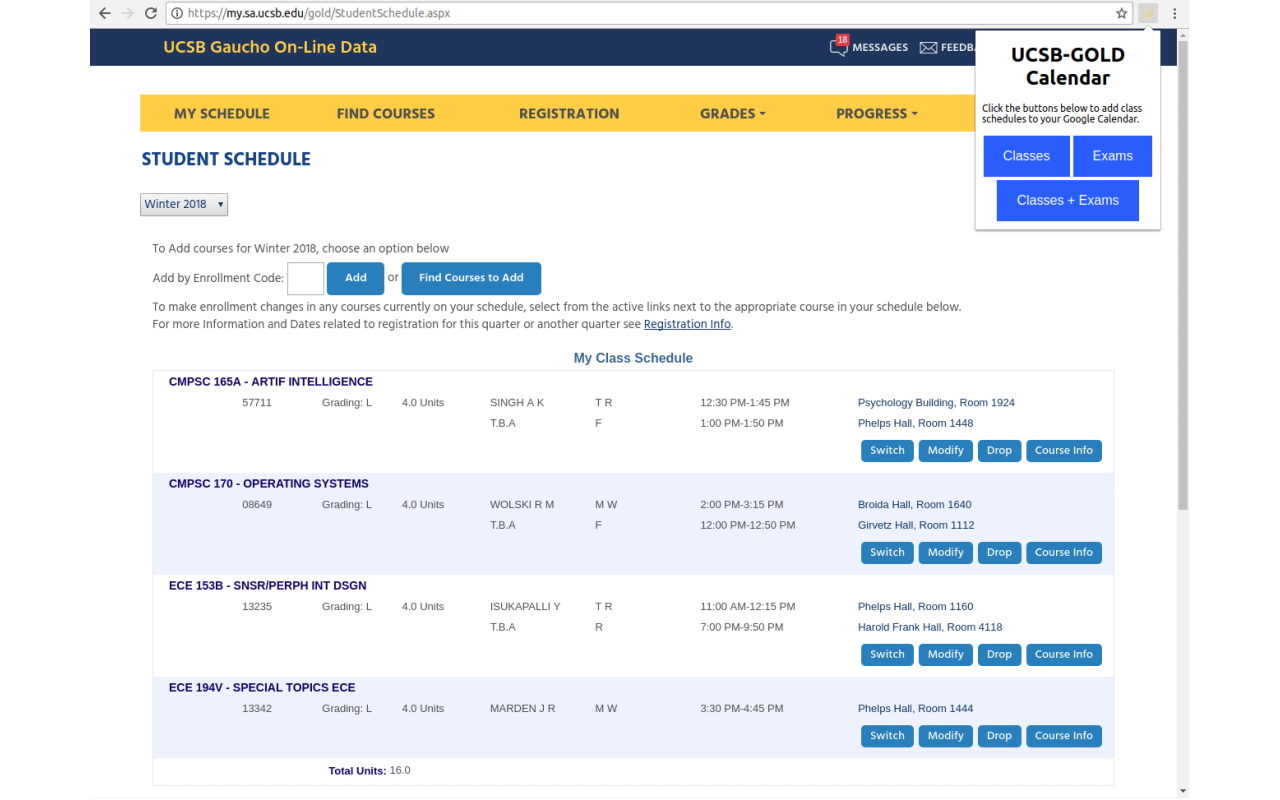
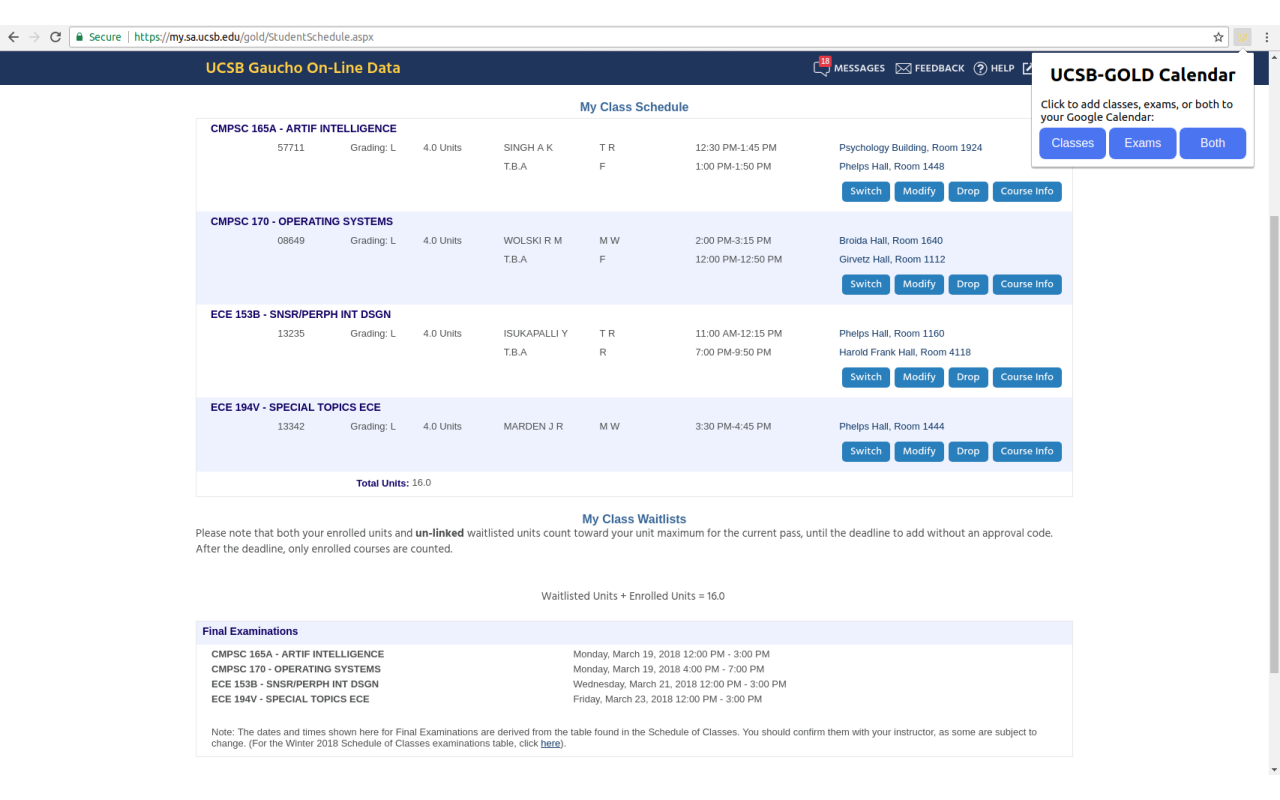
more popup edits

diff --git a/docs/popup.css b/docs/popup.css
@@ -31,4 +31,6 @@ button {
    color: white;
    font-size: 16px;
    padding: 12px;
+   border-radius: 8px;
+   cursor: pointer;
  }
